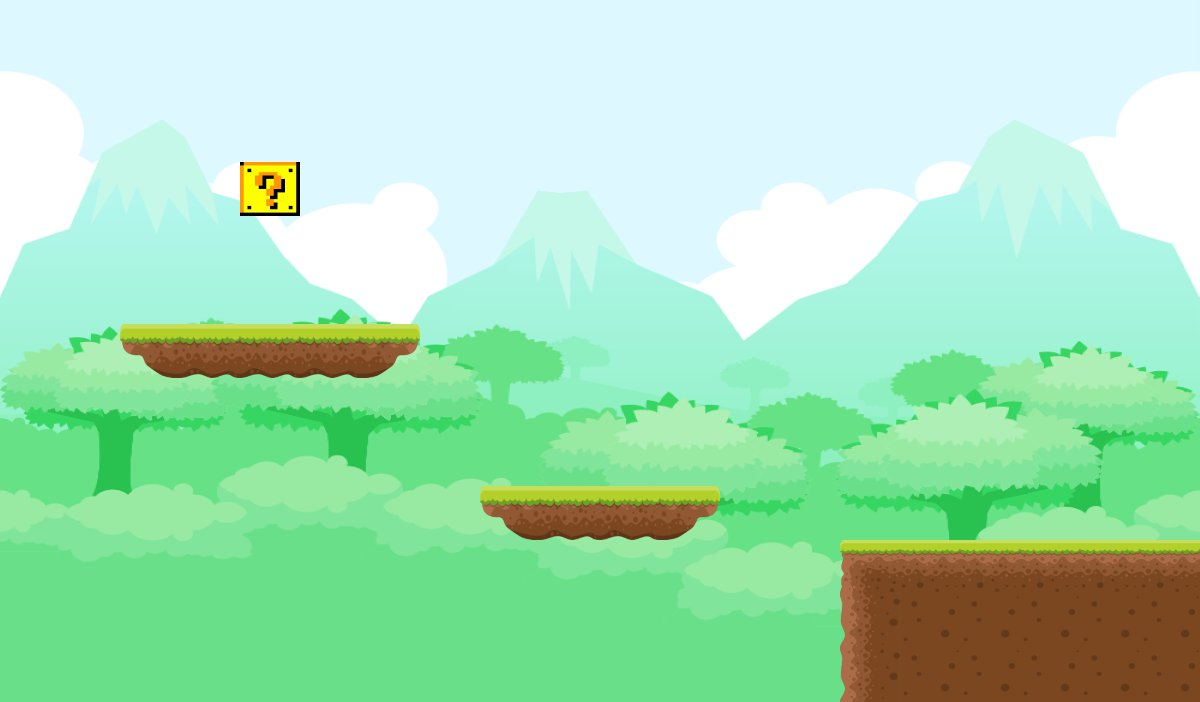
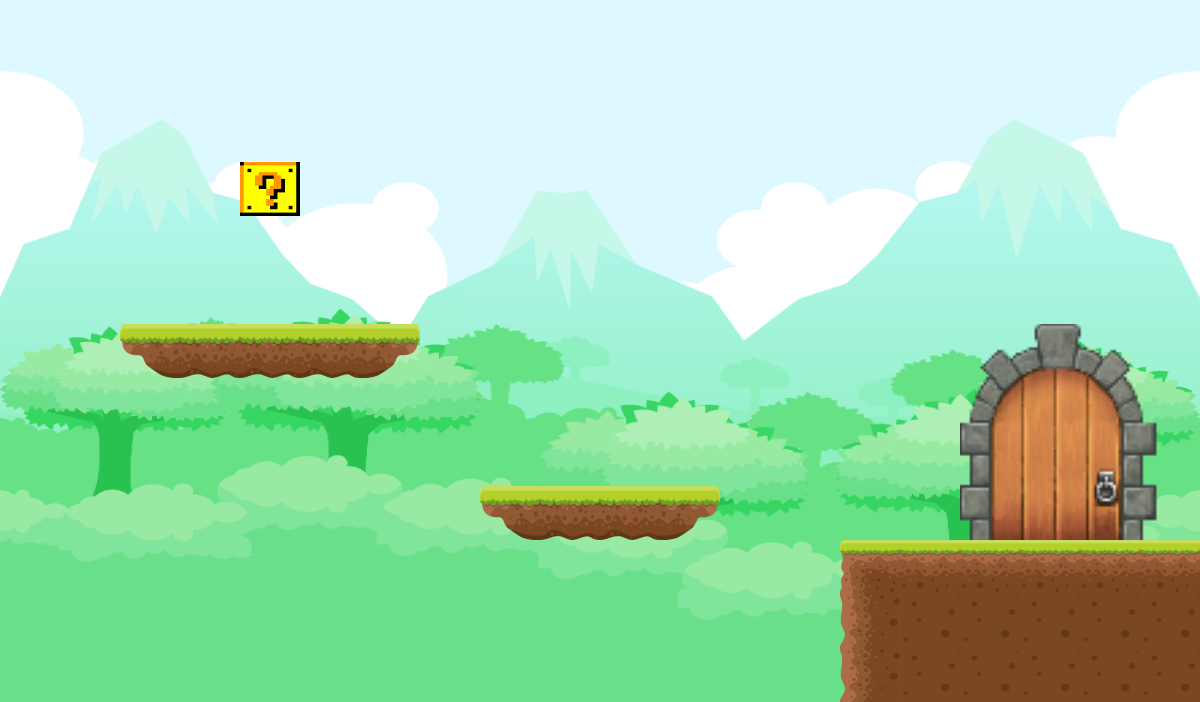
d

Changed region(s): [[0.8017, 0.4487, 0.9867, 0.7778], [0.2158, 0.2094, 0.2467, 0.2991]]

diff --git a/menu-KT.py b/menu-KT.py
@@ -446,6 +446,7 @@ fireBall = image.load("Textures\\png\\Object\\fireball.png").convert_alpha()
 class Player():
     def __init__(self, x, y, screen):
         self.screen = screen
+        self.hitArcadeCoords = [0,0]
         self.x=x
         self.y=y
         self.vel = [0,0]
@@ -523,6 +524,7 @@ class Player():
                     level.levels[level.currentLevel][Y][X] = []
                 elif level.levels[level.currentLevel][Y][X] == ["arcade"] and keys[K_UP]:
                     player.playingTicTacToe = True
+                    player.hitArcadeCoords = [X, Y]
                 elif level.levels[level.currentLevel][Y][X] == ["gun"]:
                     powerUpSound = mixer.Sound(("Sound Effects\\smb_powerup.mp3"))
                     powerUpSound.set_volume(0.4)
@@ -767,6 +769,7 @@ BLACK=0,0,0
 WHITE=255,255,255
 screen = display.set_mode((width, height))
 
+#instructions pannel
 def instructions():
     inst = image.load("pics/Instructions.png")
     inst = transform.smoothscale(inst, screen.get_size())
@@ -789,6 +792,7 @@ def instructions():
 
     return "menu"
 
+#story pannel
 def story(): #function when the player clicks story
     running = True
     story = image.load("pics/story.png")
@@ -809,11 +813,13 @@ def story(): #function when the player clicks story
         display.flip()
     return "menu"
 
+#level choosing pannel
 def level1():
     global lev
     s, lev = Level_picker.runLevelPicker(screen)
     return s 
 
+#actuall game
 def game(lev):
     global screen
     global switchLevel
@@ -832,12 +838,15 @@ def game(lev):
     while running:
         #screen = display.set_mode((width, height))
         if player.playingTicTacToe:
+            mixer.Channel(6).stop()
             screen = display.set_mode((650, 650))
             if ticTacToe.runTicTacToe(screen) == "winner":
                 level.enemies[level.currentLevel].append(epicKey("key_red", Rect(player.posInLevel+100, player.y, W, H), player.posInLevel+100, player.y))
+                level.levels[level.currentLevel][player.hitArcadeCoords[1]][player.hitArcadeCoords[0]] = []
             screen = display.set_mode((1200, 702))
             player.playingTicTacToe = False
-        if not paused and not level.gameOver:
+            mixer.Channel(6).play(bgMusic)
+        if not paused and not level.gameOver and not mixer.Channel(6).get_busy():
             mixer.Channel(6).play(bgMusic)
         if level.gameOver and not mixer.Channel(6).get_busy():
             return "exit"
@@ -853,6 +862,8 @@ def game(lev):
                 if evt.key == K_p:
                     if not paused:
                         paused = True
+                        mixer.music.load("Sound Effects\\smb_pause.wav")
+                        mixer.music.play()
                         bgMusic.stop()
                     else:
                         paused = False

diff --git a/levelPrieviewer.py b/levelPrieviewer.py
@@ -2,7 +2,7 @@ from pygame import *
 from tkinter import filedialog
 import tilesAndIdleStates
 
-lFile = open("Levels\\level3.txt", "r")
+lFile = open("Levels\\level1.txt", "r")
 level_1 = eval(lFile.read().strip())
 
 tileDict = tilesAndIdleStates.tileDict
@@ -30,7 +30,7 @@ heightOfTile = height//row
 
 running=True
 
-bgForest = image.load("Textures\\png\\BG\\desertBG.png").convert()
+bgForest = image.load("Textures\\png\\BG\\BG.png").convert()
 
 while running:
     for evt in event.get():

diff --git a/ticTacToe.py b/ticTacToe.py
@@ -149,8 +149,6 @@ def runTicTacToe(s):
             result=comicFont.render(win,True,WHITE)
             screen.blit(result,(325,325))
             #brings the player back to the platformer
-            if thickness >= 100:
-                print ("winner")
             if thickness >= 4000:
                 running = False
                 return "winner"
